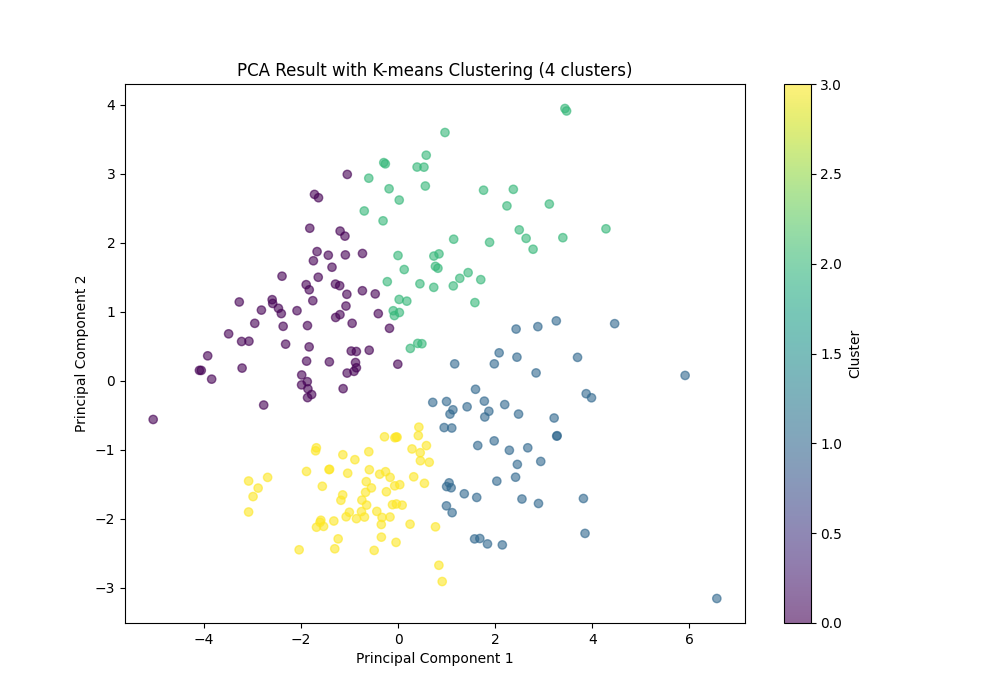
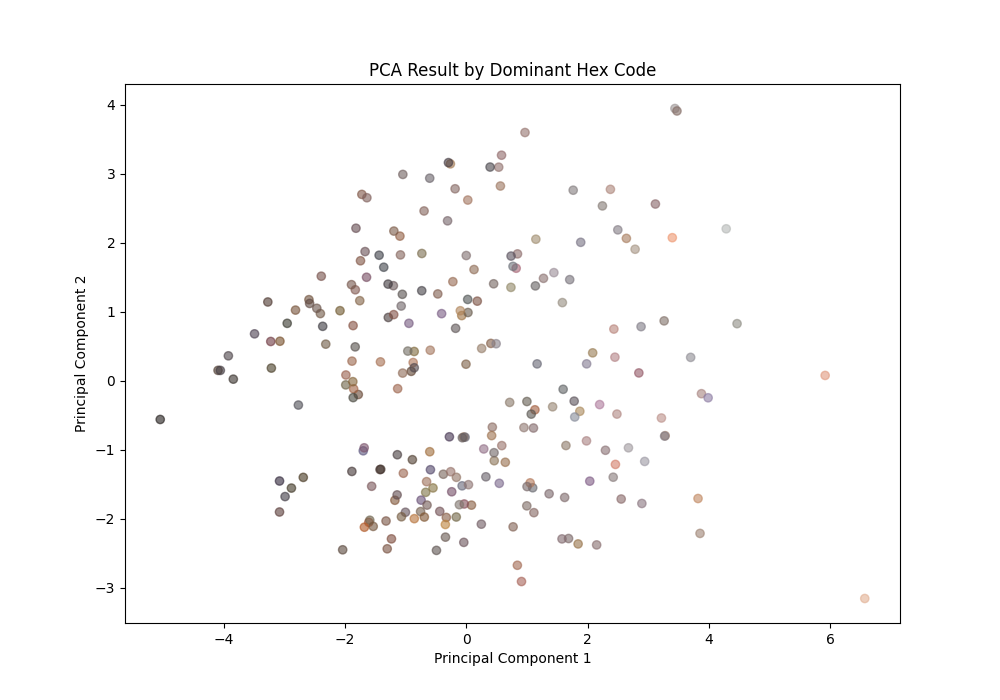
added k-means
and updated README

diff --git a/k-means_by_hex.py b/k-means_by_hex.py
@@ -20,23 +20,24 @@ pca = PCA(n_components=2)
 pca_result = pca.fit_transform(scaled_data)
 
 # Perform K-means clustering with 4 clusters
-optimal_clusters = 3
+optimal_clusters = 4
 kmeans = KMeans(n_clusters=optimal_clusters, random_state=42)
 clusters = kmeans.fit_predict(pca_result)
 
-# Add the cluster labels to the PCA result dataframe
+# Add the cluster labels and hex color to the PCA result dataframe
 pca_result_df = pd.DataFrame(pca_result, columns=['PC1', 'PC2'])
 pca_result_df['Cluster'] = clusters
+pca_result_df['Hex Color'] = data['Hex Color']
 
-# Plot the PCA result with cluster labels (4 clusters)
+# Plot the PCA result with hex color and discrete cluster legend
 plt.figure(figsize=(10, 7))
-scatter = plt.scatter(pca_result_df['PC1'], pca_result_df['PC2'], c=pca_result_df['Cluster'], cmap='viridis', alpha=0.6)
+
+# Plot each cluster separately with corresponding hex color
+for cluster in range(optimal_clusters):
+    clustered_data = pca_result_df[pca_result_df['Cluster'] == cluster]
+    plt.scatter(clustered_data['PC1'], clustered_data['PC2'], color=clustered_data['Hex Color'], label=f'Cluster {cluster}', alpha=0.6)
+
 plt.xlabel('Principal Component 1')
 plt.ylabel('Principal Component 2')
-plt.title('PCA Result with K-means Clustering (3 clusters)')
-legend1 = plt.legend(*scatter.legend_elements(), title="Clusters")
-plt.gca().add_artist(legend1)
+plt.title('PCA Result by Dominant Hex Code')
 plt.show()
-
-# Plot the PCA result with Hex colors
-

diff --git a/README.md b/README.md
@@ -28,11 +28,11 @@ This quick project aims to determine if fundus color can be separated into clini
     - If including non-numerical data, this will need to be recoded before analysis
     - This script will encode eye side and gender as 0 and 1
  
- The data is now ready for cluster analysis. Specific dimensions can be included or excluded from analysis. [After labelling](results/clustered_output.xlsx), you can plot. For example:
+ The data is now ready for cluster analysis. Specific dimensions can be included or excluded from analysis. For example, you can plot:
 
- ![example 5](bin/output.png)
- ![example 6](bin/Figure_3.png)
- ![example 7](bin/output_2.png)
+ ![example 5](bin/Figure_2.png)
+ ![example 6](bin/Figure_1.png)
+ ![example 7](bin/Figure_3.png)
 
 
 ## Next Steps and Considerations
